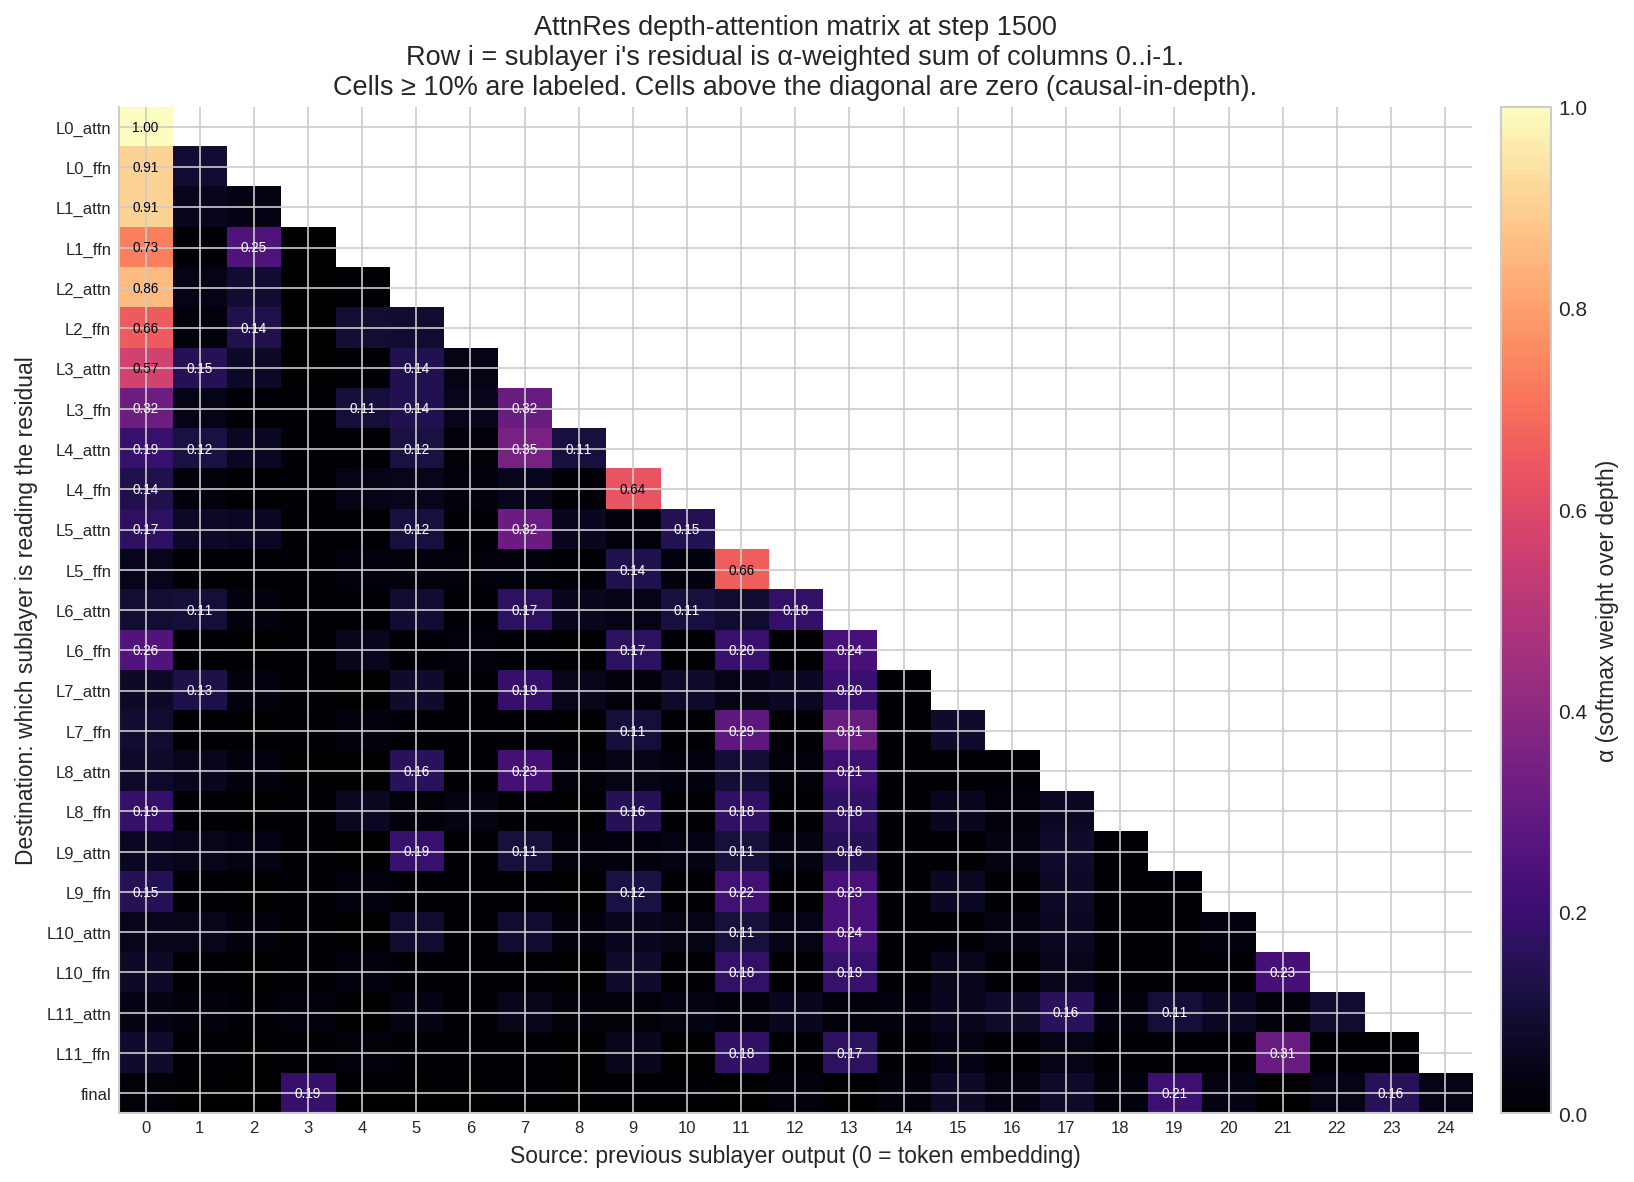
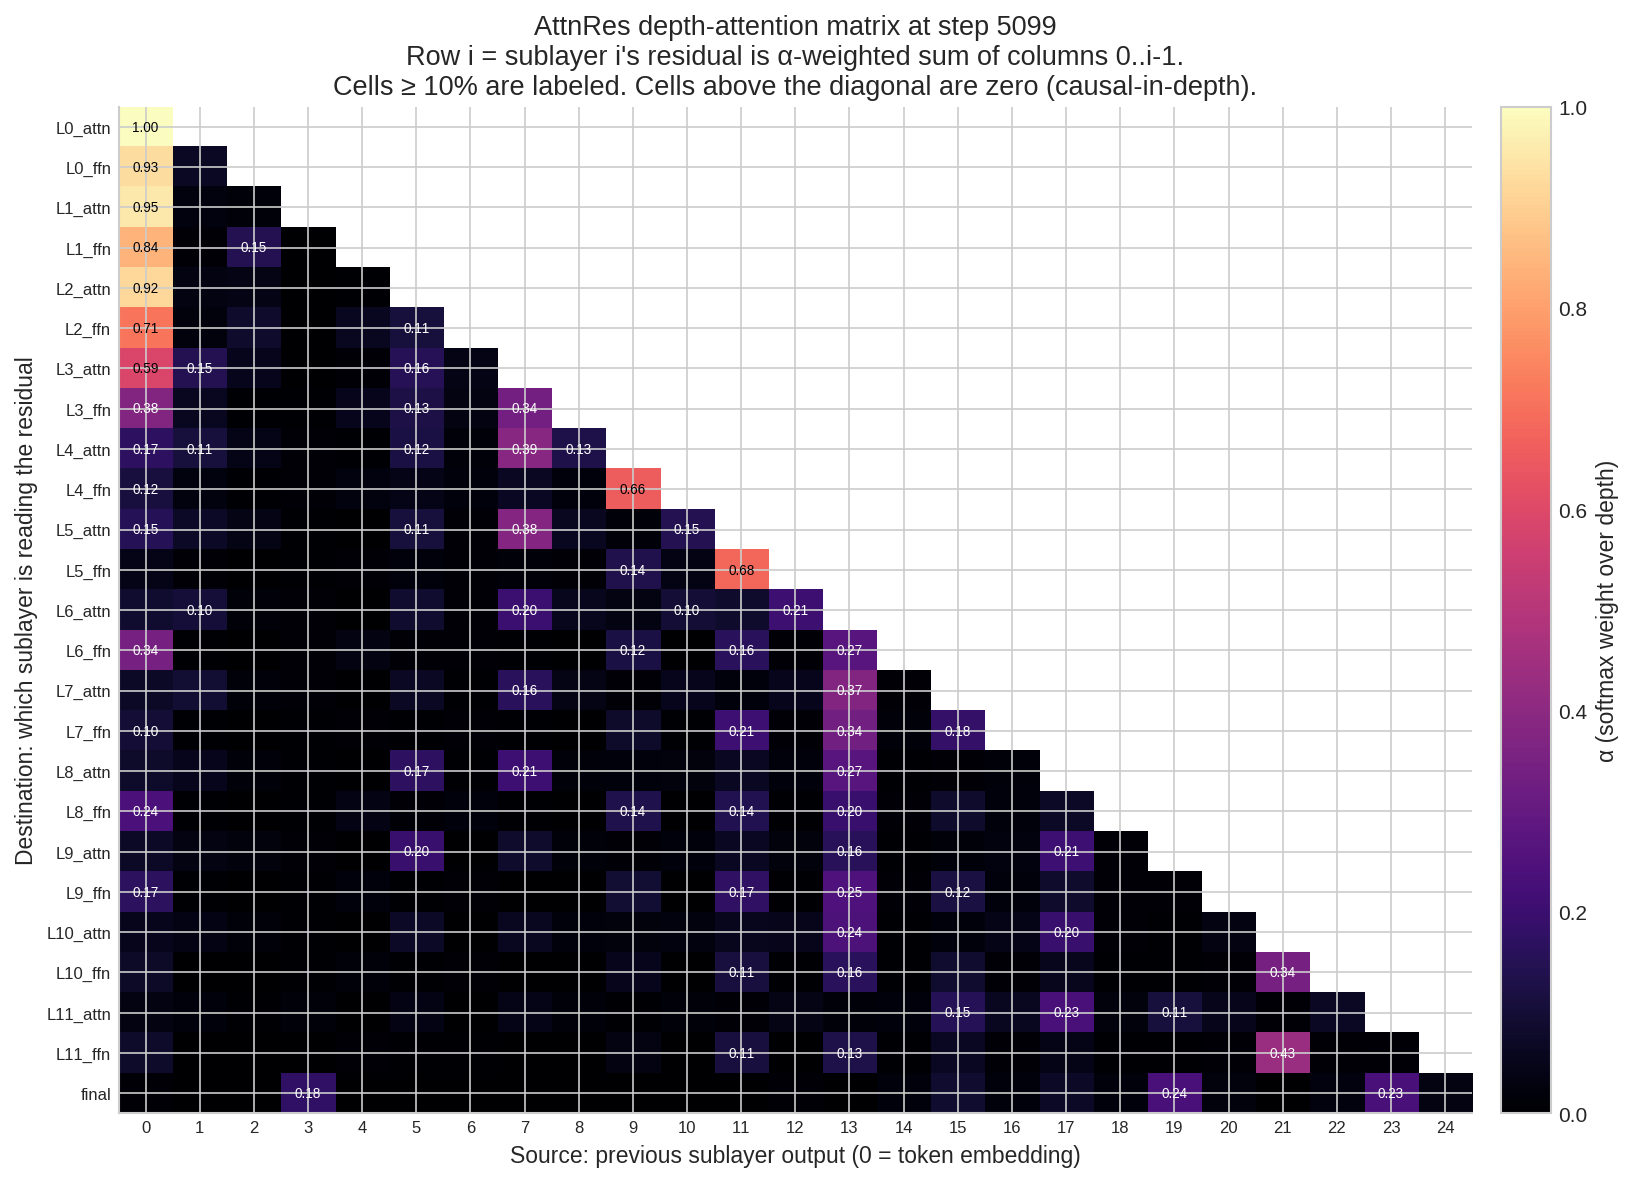
Update AttnRes section with full 5100-step results
The AttnRes resume completed cleanly through step 5099. Updates:

  - README val-loss table now covers all 11 apples-to-apples checkpoints
    (was previously cut off at step 1500 with a "trend extrapolated"
    caveat). Gap shrinks monotonically from +0.063 at step 500 to +0.011
    at step 5099 (about a third of the dense-vs-MoE gap of +0.034).
  - Honest framing updated: AttnRes doesn't beat MoE at this scale, but
    it gets within ~0.01 nat of full MoE while never crossing it.
  - Reproduce section mentions both the initial 6h sbatch and the
    pretrain_moe_attnres_resume.sbatch needed to complete the full run.
  - figs/attnres_*.png regenerated with the full data (loss curves with
    per-step Δ labels through step 5099; attention matrix at step 5099).

diff --git a/README.md b/README.md
@@ -205,15 +205,23 @@ Together those quirks meant the AttnRes run had a SLURM budget of 6 h and made i
 | 500  | 3.911  | 3.974  | +0.063 |
 | 1000 | 3.697  | 3.731  | +0.033 |
 | 1500 | 3.601  | 3.622  | +0.021 |
+| 2000 | 3.539  | 3.559  | +0.020 |
+| 2500 | 3.499  | 3.515  | +0.017 |
+| 3000 | 3.470  | 3.485  | +0.015 |
+| 3500 | 3.444  | 3.456  | +0.012 |
+| 4000 | 3.402  | 3.414  | +0.011 |
+| 4500 | 3.354  | 3.365  | +0.011 |
+| 5000 | 3.314  | 3.325  | +0.011 |
+| **5099** | **3.311** | **3.321** | **+0.011** |
 
 Two patterns:
 
 1. **AttnRes starts lower at random init** (val 14.78 vs MoE's 15.98). With zero-init pseudo-queries, AttnRes is an equal-weight *average* over previous outputs rather than a sum — so the residual stream's magnitude is bounded, the random model's per-token logits are smaller, and cross-entropy lands lower. The paper notes this explicitly as one of the things AttnRes fixes about PreNorm.
-2. **AttnRes lags after warmup but the gap is shrinking fast.** +0.063 at step 500, halved to +0.033 at step 1000, halved again to +0.021 at step 1500. Linear extrapolation crosses zero somewhere around step 2500–3000. We didn't get to verify because our run was cut at 1707, but the trend is clean. The paper's scaling-law section shows AttnRes consistently below baseline at every compute budget they tested; we see something consistent with that direction if we'd kept training.
+2. **AttnRes lags after warmup but the gap shrinks monotonically through training.** +0.063 at step 500 → +0.033 at step 1000 → +0.021 at step 1500 → +0.011 at step 4000 onward (where it stabilizes). Final gap **+0.011 nat** at step 5099 — about a third of the dense-vs-MoE gap (+0.034) we saw at the same step count, and well within our 2× wall-clock budget. The paper's scaling-law section shows AttnRes consistently below baseline at every compute budget they tested; our 12-layer model just barely doesn't get there but the closing-trend is real.
 
 ### Where the depth-attention actually pays attention
 
-The headline figure from the experiment: at the final saved checkpoint (step 1500), here are the learned α weights for every (sublayer → previous-output) pair.
+The headline figure from the experiment: at the final saved checkpoint (step 5099), here are the learned α weights for every (sublayer → previous-output) pair.
 
 ![Attention matrix](figs/attnres_attention_matrix.png)
 
@@ -241,19 +249,20 @@ This is the same depth-wise pattern we saw in MoE routing — *specialization co
 
 ### Caveats and honest framing
 
-- This isn't a fair beat-MoE story at the budget we had. The paper's wins are at depth (54-layer models with 100K+ token contexts); our 12-layer model is the regime where the dilution problem AttnRes attacks is weakest. The trend we observed (gap shrinking) is at least consistent with AttnRes eventually catching up if trained longer, but we don't have the data to confirm.
+- This isn't a beat-MoE story at our budget. The paper's wins are at depth (54-layer models with 100K+ token contexts); our 12-layer model is the regime where the dilution problem AttnRes attacks is weakest. Even so, the gap closes from +0.063 → +0.011 over training and stabilizes there — about a third of the dense-vs-MoE gap and clearly headed toward (but not crossing) the baseline.
 - Our wall-clock cost (~5× per step) is implementation overhead, not fundamental. The paper achieves <4% overhead with the optimizations we didn't reimplement.
 - The implementation lessons (memory bookkeeping, compile interactions, the `no_grad` eval bug we exposed) were the most valuable part of running this at small scale.
 
 ### How to reproduce
 
 ```
-sbatch scripts/pretrain_moe.sbatch          # baseline (5100 steps, ~92 min)
-sbatch scripts/pretrain_moe_attnres.sbatch  # AttnRes variant (B=32, ~12 s/step)
-.venv/bin/python plot_attnres.py            # generates the 3 plots in figs/
+sbatch scripts/pretrain_moe.sbatch                  # baseline (5100 steps, ~92 min)
+sbatch scripts/pretrain_moe_attnres.sbatch          # AttnRes variant (B=32, ~12 s/step, 6 h cap)
+sbatch scripts/pretrain_moe_attnres_resume.sbatch   # resume from last checkpoint, finishes to step 5099
+.venv/bin/python plot_attnres.py                    # generates the 3 plots in figs/
 ```
 
-`scripts/pretrain_moe_attnres.sbatch` runs at B=32 with `PYTORCH_CUDA_ALLOC_CONF=expandable_segments:True` and a 6 h time limit — long enough to reach val checkpoints at 500/1000/1500.
+`scripts/pretrain_moe_attnres.sbatch` runs at B=32 with `PYTORCH_CUDA_ALLOC_CONF=expandable_segments:True` and a 6 h time limit (gets to ~step 1700). `pretrain_moe_attnres_resume.sbatch` picks up from the latest saved `step_*/checkpoint.pt` (resume code in `utils.py:resume_from_checkpoint` finds the latest dir that actually has a checkpoint, then advances LR schedulers and the train_loader to match) and runs another ~12 h to complete all 5100 steps.
 
 ---
 
